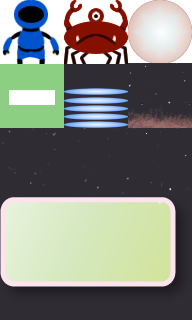
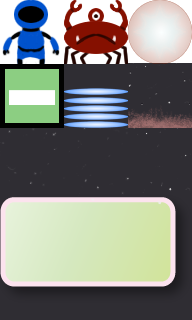
Updated the sprites
The hero will now have its sprite be facing the correct way.

Changed region(s): [[0.0, 0.1875, 0.3438, 0.4062]]

diff --git a/hedgehogApocalypse/src/hedgehogApocalypse.js b/hedgehogApocalypse/src/hedgehogApocalypse.js
@@ -5,6 +5,13 @@ image.addEventListener("load", loadHandler, false);
 image.src = "../images/hedgehogApocalypse.png";
 assetsToLoad.push(image);
 
+//JT:added a new sprite sheet for the cat astronaught
+var astro = new Image();
+astro.addEventListener("load", loadHandler, false);
+astro.src = "../images/astro.png";
+assetsToLoad.push(astro);
+
+
 //Add keyboard listeners
 window.addEventListener("keydown", keydownhandler, false); 
 window.addEventListener("keyup", keyuphandler, false);
@@ -79,7 +86,7 @@ function buildMap(levelMap)
             cat = new Cat(column, row);//spriteObject;
             cat.sourceX = tilesheetX;
             cat.sourceY = tilesheetY;
-            sprites.push(cat);
+            players.push(cat);
             break;
             
           case HEDGEHOG:
@@ -140,7 +147,13 @@ function createOtherObjects()
 }
 
 function playGame()
-{   
+{
+	//JT:update player
+	for (var i = 0; i < players.length; i++)
+	{
+	    players[i].update();
+	}
+	
 	for (var i = 0; i < sprites.length; i++)
 	{
 		sprites[i].update();
@@ -204,6 +217,28 @@ function render()
           sprite.sourceWidth, sprite.sourceHeight,
           Math.floor(sprite.x), Math.floor(sprite.y), 
           sprite.width, sprite.height
+        ); 
+      }
+    }
+  }
+  
+  //JT: Display the player
+  if(players.length !== 0)
+  {
+    console.log("inside the player");
+    
+    for(var i = 0; i < players.length; i++)
+    {
+      var player = players[i];
+      if(player.visible)
+      {
+        drawingSurface.drawImage
+        (
+          astro, 
+          player.sourceX, player.sourceY, 
+          player.sourceWidth, player.sourceHeight,
+          Math.floor(player.x), Math.floor(player.y), 
+          player.width, player.height
         ); 
       }
     }

diff --git a/hedgehogApocalypse/src/player.js b/hedgehogApocalypse/src/player.js
@@ -9,21 +9,31 @@ function Cat(column, row){
 
 Cat.prototype.update = function()
 {
+  ///JT: if just standing still
+	if (this.isOnGround)
+	{
+		this.sourceX = 0;
+	}
+	
   //Left
   if(moveLeft && !moveRight)
   {
+	
+	this.sourceX = 128;
     this.accelerationX = -0.2;
     this.friction = 1;
   }
   //Right
   if(moveRight && !moveLeft)
   {
+	this.sourceX = 64;
     this.accelerationX = 0.2;
     this.friction = 1;
   }
   //Space
   if(jump && this.isOnGround)
   {
+	this.sourceX = 192;
     this.vy += this.jumpForce;
     this.isOnGround = false;
     this.friction = 1;

diff --git a/hedgehogApocalypse/src/GlobalVariables.js b/hedgehogApocalypse/src/GlobalVariables.js
@@ -30,6 +30,7 @@ var backdrop = [];
 var sprites = [];
 var boxes = [];
 var messages = [];
+var players = [];
 
 var assetsToLoad = [];
 var assetsLoaded = 0;
